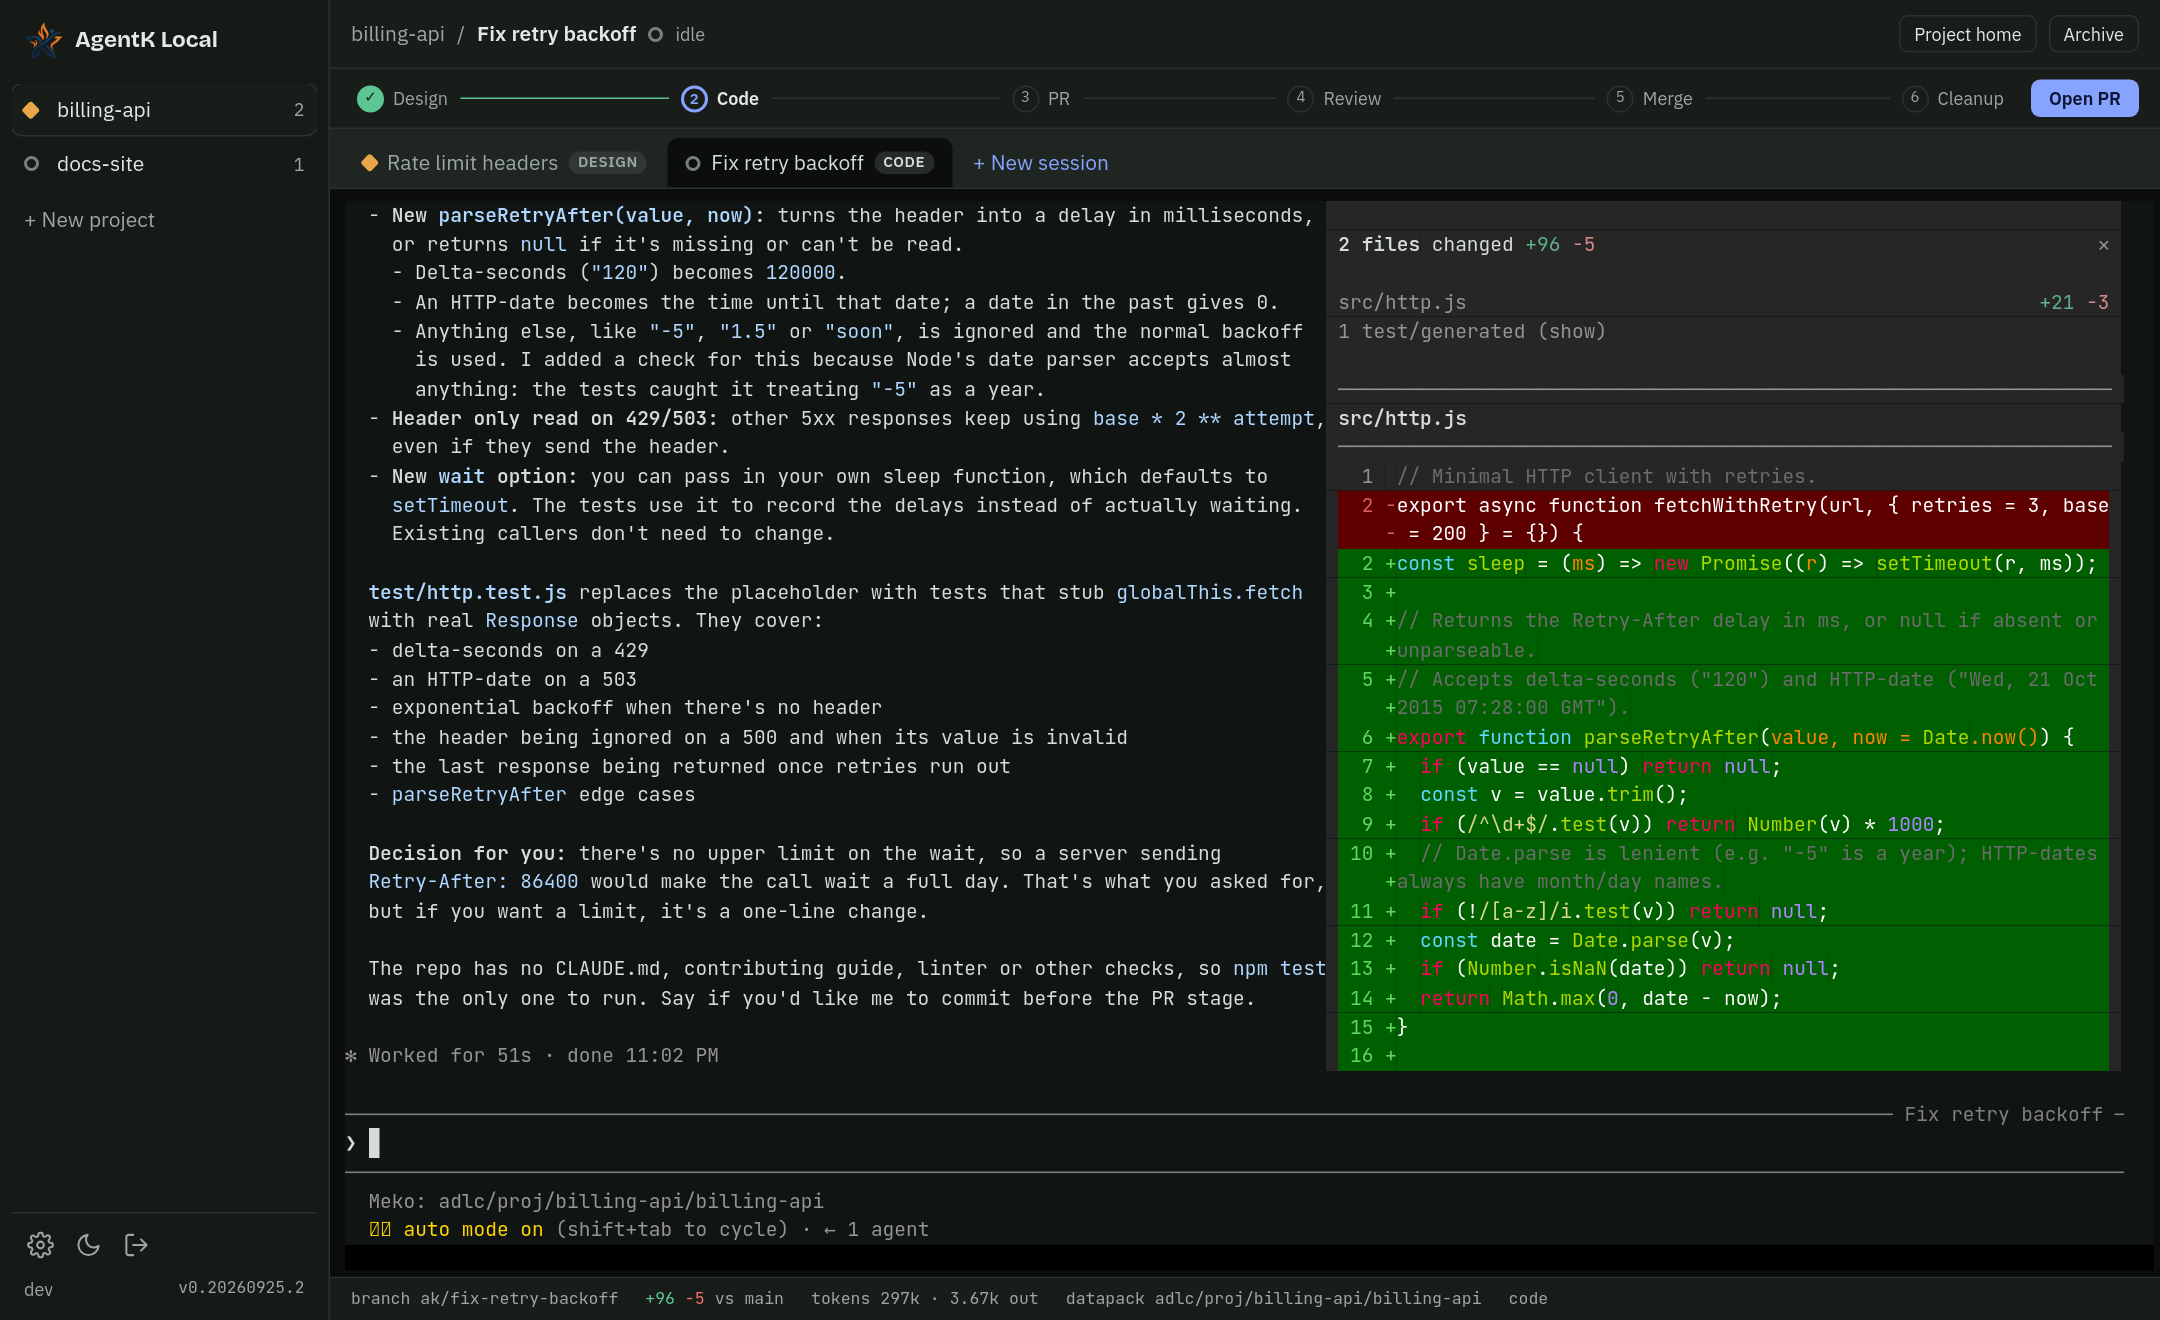
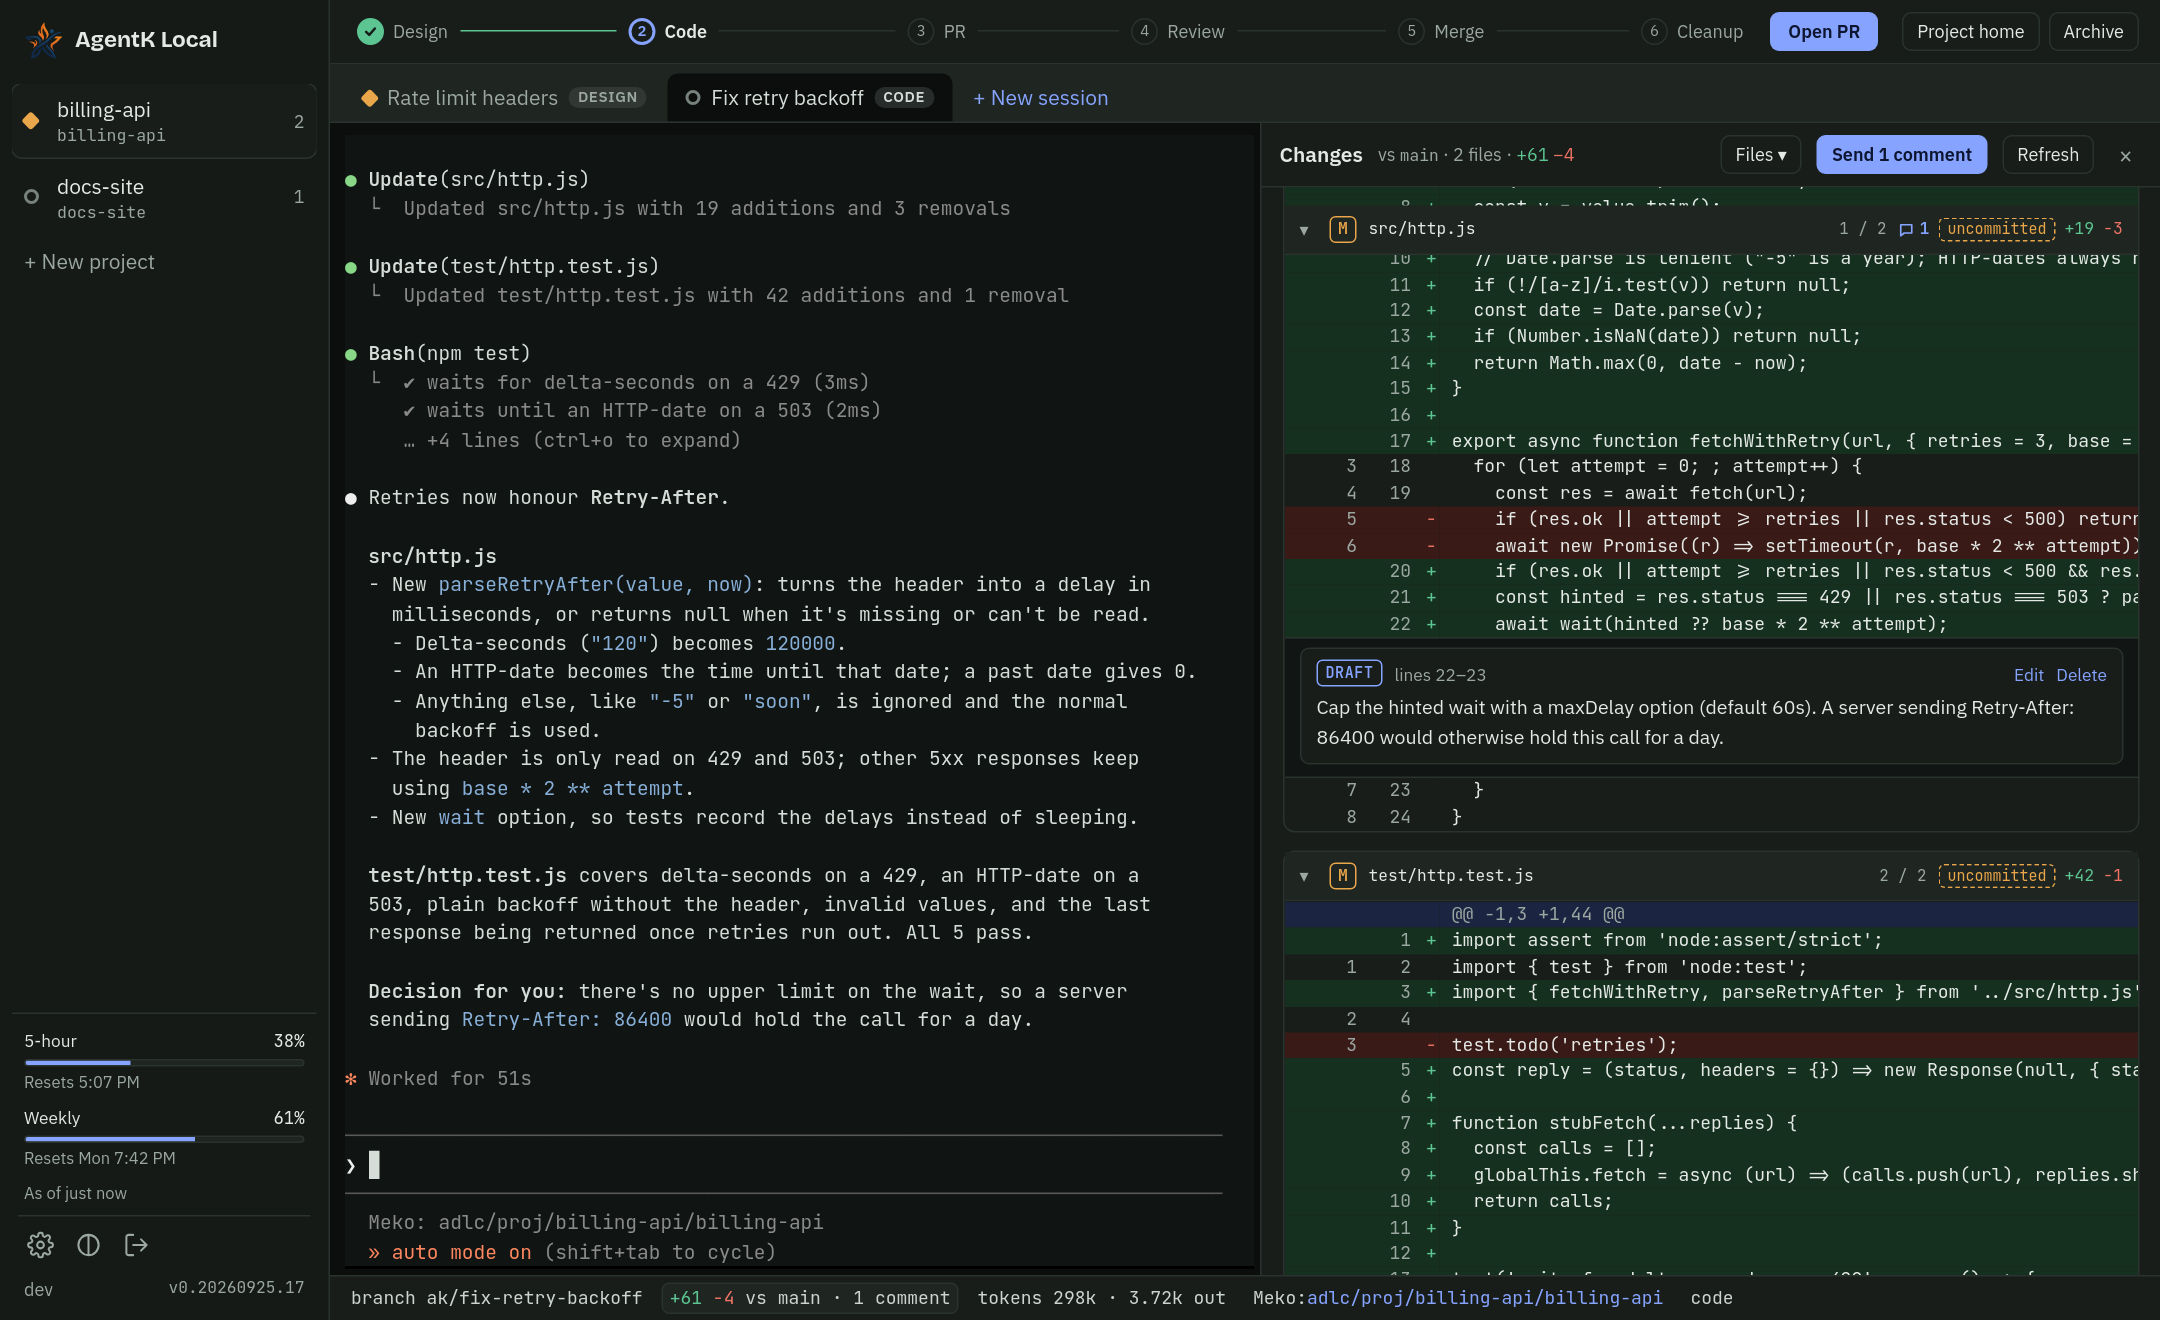
docs: retake the workbench screenshots
Show the current layout: stages and session actions in one row, the
Changes panel with a draft review comment, and the plan limits in the
rail.

diff --git a/README.md b/README.md
@@ -30,7 +30,7 @@ your devserver, and you use it from a browser:
   `claude --resume`, and sessions that were mid-turn are told to continue.
 - **Updates itself** from GitHub Releases without interrupting running sessions.
 
-![AgentK Local: a session in the Code stage, with the live Claude Code terminal](docs/screenshots/workbench.png)
+![AgentK Local: a session in the Code stage, with the live Claude Code terminal, the Changes panel with a draft review comment, and the 5-hour and weekly limits in the rail](docs/screenshots/workbench.png)
 
 <table>
   <tr>
